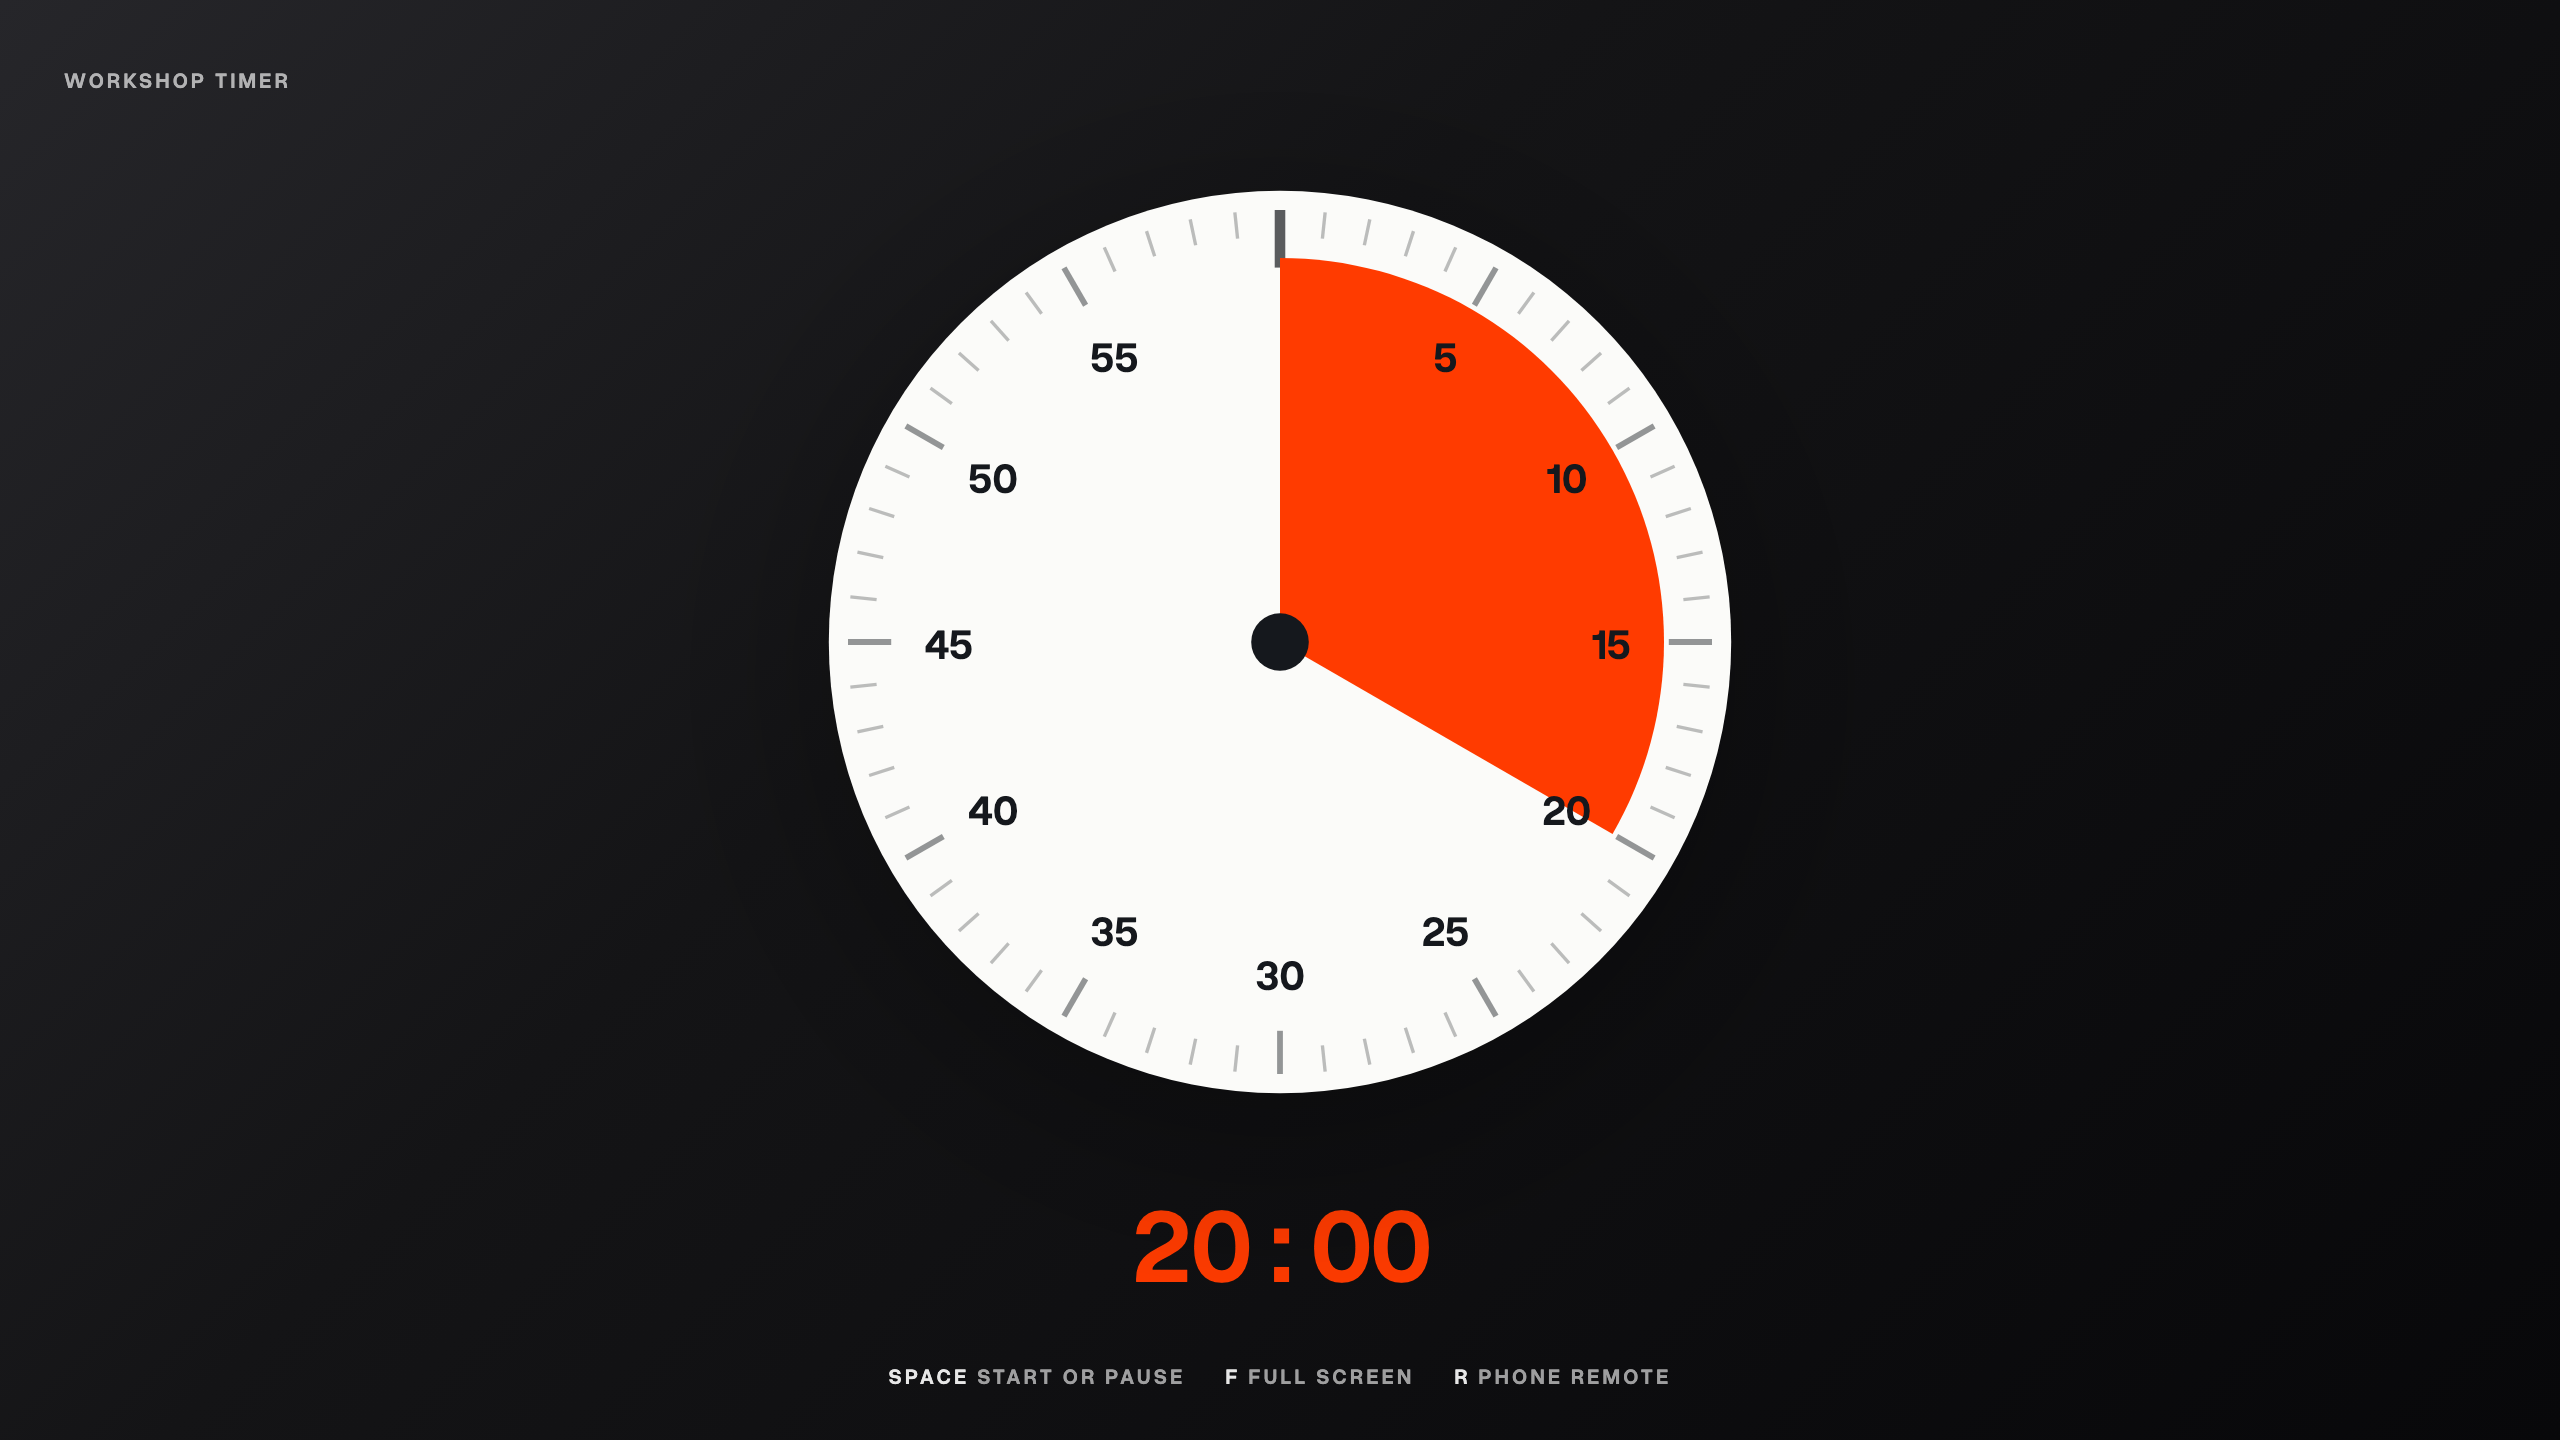
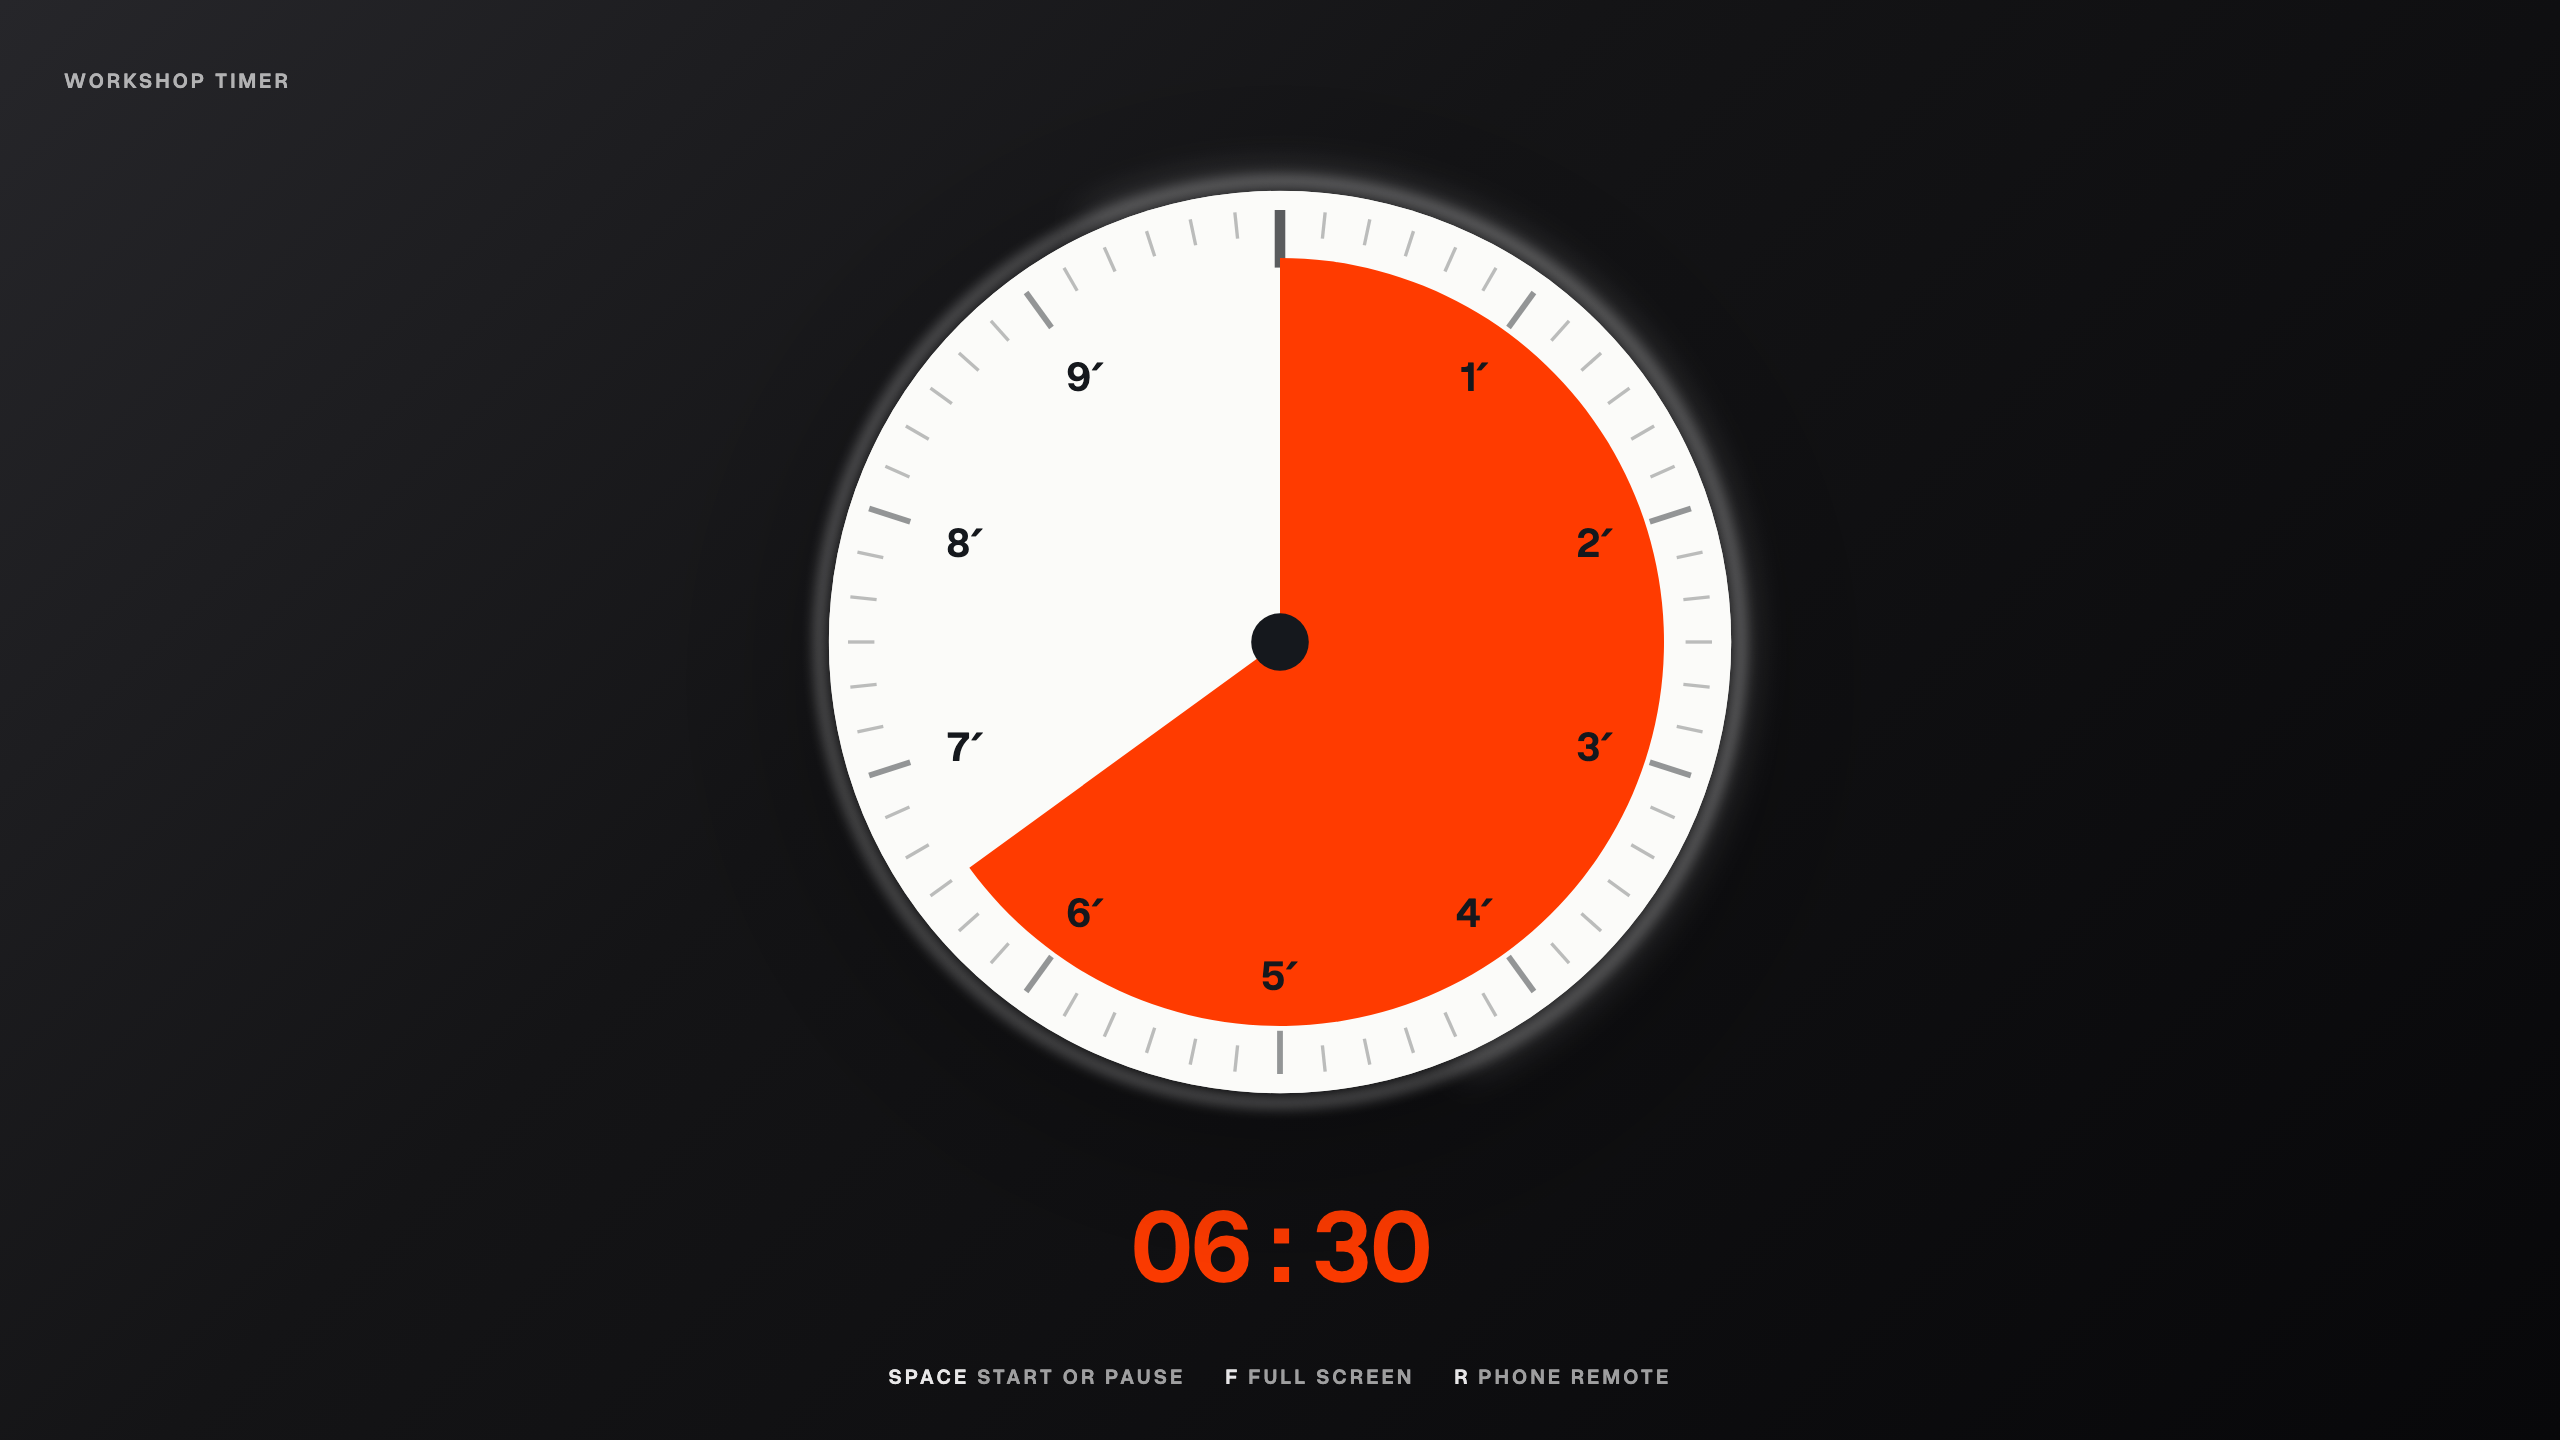
Open at 10′, and docs and pictures for the proportional dial (#3)
* Open at 10′, and docs and pictures for the proportional dial

The screen, the phone and a room opened without a length all start at 10′,
one constant. The README shows the dial at three lengths and the finish;
every picture is re-shot from the production build, and the social card
carries the new dial.

* README: title aligned left

---------

diff --git a/src/components/timer-remote.tsx b/src/components/timer-remote.tsx
@@ -6,7 +6,7 @@ import { Pause, Play, RotateCcw } from "lucide-react"
 import { useBrand } from "@/components/brand-provider"
 import { Watermark } from "@/components/watermark"
 import { needsPlinth } from "@/lib/brand"
-import { PRESETS, formatClock, parseDuration } from "@/lib/timer-clock"
+import { DEFAULT_MINUTES, PRESETS, formatClock, parseDuration } from "@/lib/timer-clock"
 import { type RelayResult, readRoom, writeRoom } from "@/lib/timer-relay-client"
 // Type only: the relay module imports node:crypto and must never be bundled
 // for a browser. Keep this an `import type`.
@@ -57,8 +57,8 @@ function TimerRemote() {
   const [entry, setEntry] = React.useState("")
   const [link, setLink] = React.useState<Link | null>(null)
 
-  const [durationMs, setDurationMs] = React.useState(15 * 60_000)
-  const [remainingMs, setRemainingMs] = React.useState(15 * 60_000)
+  const [durationMs, setDurationMs] = React.useState(DEFAULT_MINUTES * 60_000)
+  const [remainingMs, setRemainingMs] = React.useState(DEFAULT_MINUTES * 60_000)
   const [running, setRunning] = React.useState(false)
   const [flash, setFlash] = React.useState<string | null>(null)
   // Raw keystrokes while the field has focus, the live clock the rest of the

diff --git a/src/lib/timer-room.ts b/src/lib/timer-room.ts
@@ -1,6 +1,6 @@
 import { randomInt } from "node:crypto"
 
-import { MAX_SECONDS, clampMs } from "@/lib/timer-clock"
+import { DEFAULT_MINUTES, MAX_SECONDS, clampMs } from "@/lib/timer-clock"
 
 // The relay behind the phone remote: a handful of live countdowns held
 // in memory, each addressed by a short code the screen shows and the phone
@@ -152,7 +152,7 @@ export function createRoom(seed: {
 }): TimerRoom {
   const now = Date.now()
   sweep(now)
-  const durationMs = clampMs(seed.durationMs) ?? 15 * 60_000
+  const durationMs = clampMs(seed.durationMs) ?? DEFAULT_MINUTES * 60_000
   const restingMs = Math.min(durationMs, Math.max(0, Math.round(seed.remainingMs)))
   const running = seed.running && restingMs > 0
   const code = newCode()

diff --git a/src/components/timer-screen.tsx b/src/components/timer-screen.tsx
@@ -11,6 +11,7 @@ import { Watermark } from "@/components/watermark"
 import { playGong, playTick } from "@/lib/timer-audio"
 import { needsPlinth } from "@/lib/brand"
 import {
+  DEFAULT_MINUTES,
   MAX_SECONDS,
   durationFromHash,
   formatClock,
@@ -40,7 +41,7 @@ import { cn } from "@/lib/utils"
 // live in a panel that appears when you move and leaves when you stop, which
 // is why there is no separate full-screen layout: see `timer-chrome.tsx`.
 
-function TimerScreen({ defaultMinutes = 15 }: { defaultMinutes?: number }) {
+function TimerScreen({ defaultMinutes = DEFAULT_MINUTES }: { defaultMinutes?: number }) {
   const brand = useBrand()
 
   const [durationMs, setDurationMs] = React.useState(defaultMinutes * 60_000)

diff --git a/src/lib/timer-clock.ts b/src/lib/timer-clock.ts
@@ -17,6 +17,10 @@
  *  used to: numbered in fives, 45's halfway (22′30″) falls between two. */
 export const PRESETS = [1, 2, 4, 6, 8, 10, 14, 20, 30, 40, 50, 60, 90] as const
 
+/** What a fresh screen, a phone that has not heard from it yet, and a room
+ *  opened without a length all start on. One of `PRESETS`, so a chip is lit. */
+export const DEFAULT_MINUTES = 10
+
 export const MAX_MINUTES = 180
 export const MIN_SECONDS = 1
 export const MAX_SECONDS = MAX_MINUTES * 60

diff --git a/README.md b/README.md
@@ -1,6 +1,6 @@
-<div align="center">
-
 # workshop-timer
+
+<div align="center">
 
 ```
 ░▒▓█  W0RKSH0P::71MΞR  █▓▒░
@@ -10,7 +10,7 @@
 
 Built for workshops, trainings, hackathons, jams and demos. White label by design. Customize it and make it yours.
 
-<img src="docs/at-rest.png" alt="A black screen with a large white dial. A red-orange wedge covers a third of the face, which is numbered 5 to 55. Below it the readout says 20:00." width="820">
+<img src="docs/at-rest.png" alt="A black screen with a large white dial, two thirds of it red-orange. Below it the readout says 06:30." width="820">
 
 </div>
 
@@ -18,10 +18,16 @@ Built for workshops, trainings, hackathons, jams and demos. White label by desig
 
 ## What makes it different
 
-**The dial measures an hour, not a percentage.** Like a kitchen timer, the face
-is always one hour and the wedge is the slice of that hour still to come, so
-fifteen minutes reads as a quarter turn from the back of the room with nobody
-reading a number. The numerals tell you where the edge will land.
+**Every length fills the dial.** One minute or ninety, the dial starts full and
+empties as the time runs, so the back row can see how much is left without
+reading a number.
+
+<img src="docs/lengths.png" alt="Three dials side by side: a 2 minute timer with 01:30 left, a 10 minute timer with 04:00 left, and a 90 minute timer with 1:00:00 left." width="820">
+
+**Nobody misses the end.** A gong, a big red *Time's up!*, and a burst of
+confetti.
+
+<img src="docs/finish.png" alt="The dial replaced by a white disc reading Time's up! in red, with red and white confetti bursting out around it. The readout says 00:00:00." width="820">
 
 **The controls get out of the way.** They appear when you move and leave 2.6
 seconds after you stop, taking the mouse pointer with them. On a projector a
@@ -32,11 +38,11 @@ in a background tab, and a clock that subtracts 100ms per tick quietly loses
 minutes while you present in another window. This one recomputes from a wall
 clock every tick, so it cannot drift.
 
-<img src="docs/controls.png" alt="The same timer with a black control bar across the middle: a row of preset lengths from 1 to 60 minutes, and below it Start, Reset, plus one minute, sound, full screen and phone." width="820">
+<img src="docs/controls.png" alt="The same timer with a black control bar across the middle: a row of lengths from 1 to 90 minutes, and below it Start, Reset, plus one minute, sound, full screen and phone." width="820">
 
 Three keys, because the laptop is usually across the room: `Space` to start or
 pause, `F` for full screen, `R` for the phone. Set the length by typing into the
-readout, by preset, or in the link itself (`/#25`, `/#7:30`).
+readout, by preset, or in the link itself (`/#25`, `/#7:30`). It opens at ten minutes.
 
 The last minute switches the readout to hundredths, lights the rim, shakes the
 face, ticks each second and strikes a gong at zero. All of it goes quiet under
@@ -53,7 +59,7 @@ device drives the clock while both follow.
 
 <table>
 <tr>
-<td width="230"><img src="docs/remote.png" alt="A phone showing Connected to the screen, a grid of minute buttons, the readout 20:00, and large Start and Reset buttons." width="210"></td>
+<td width="230"><img src="docs/remote.png" alt="A phone showing Connected to the screen, a grid of lengths, the readout 10:00, and large Start and Reset buttons." width="210"></td>
 <td>
 
 The relay carries **state, not commands**. A reply says how much time is left,
@@ -74,7 +80,7 @@ after timer all day.
 Everything a brand can change is a CSS custom property, so a new brand is a JSON
 file and never a patch.
 
-<img src="docs/rebranded.png" alt="The same timer on a cream background with a deep orange wedge, showing 45:00." width="820">
+<img src="docs/rebranded.png" alt="The same timer on a cream background with a deep orange wedge, showing 18:00." width="820">
 
 **Ship a brand with the deployment.** Put a file in `brands/` and name it:
 

diff --git a/CONTRIBUTING.md b/CONTRIBUTING.md
@@ -40,10 +40,9 @@ depend on, which will rewrite whole files around your three lines.
 
 ## Things worth knowing before you change them
 
-**The dial is an hour, not a percentage.** The face always represents sixty
-minutes and the wedge is the slice still to come, so a duration over an hour is
-not a bug: the wedge sits full until the clock drops under sixty. Please do not
-"fix" this.
+**The dial is always the whole countdown.** Its marks and numbers come from
+`dialScale` in `src/components/timer-dial.tsx`, for any length. Change the rule
+there rather than special-casing a length.
 
 **The clock is deadline driven, never a counter.** Every tick recomputes from a
 wall clock rather than subtracting from a total, because browsers throttle
